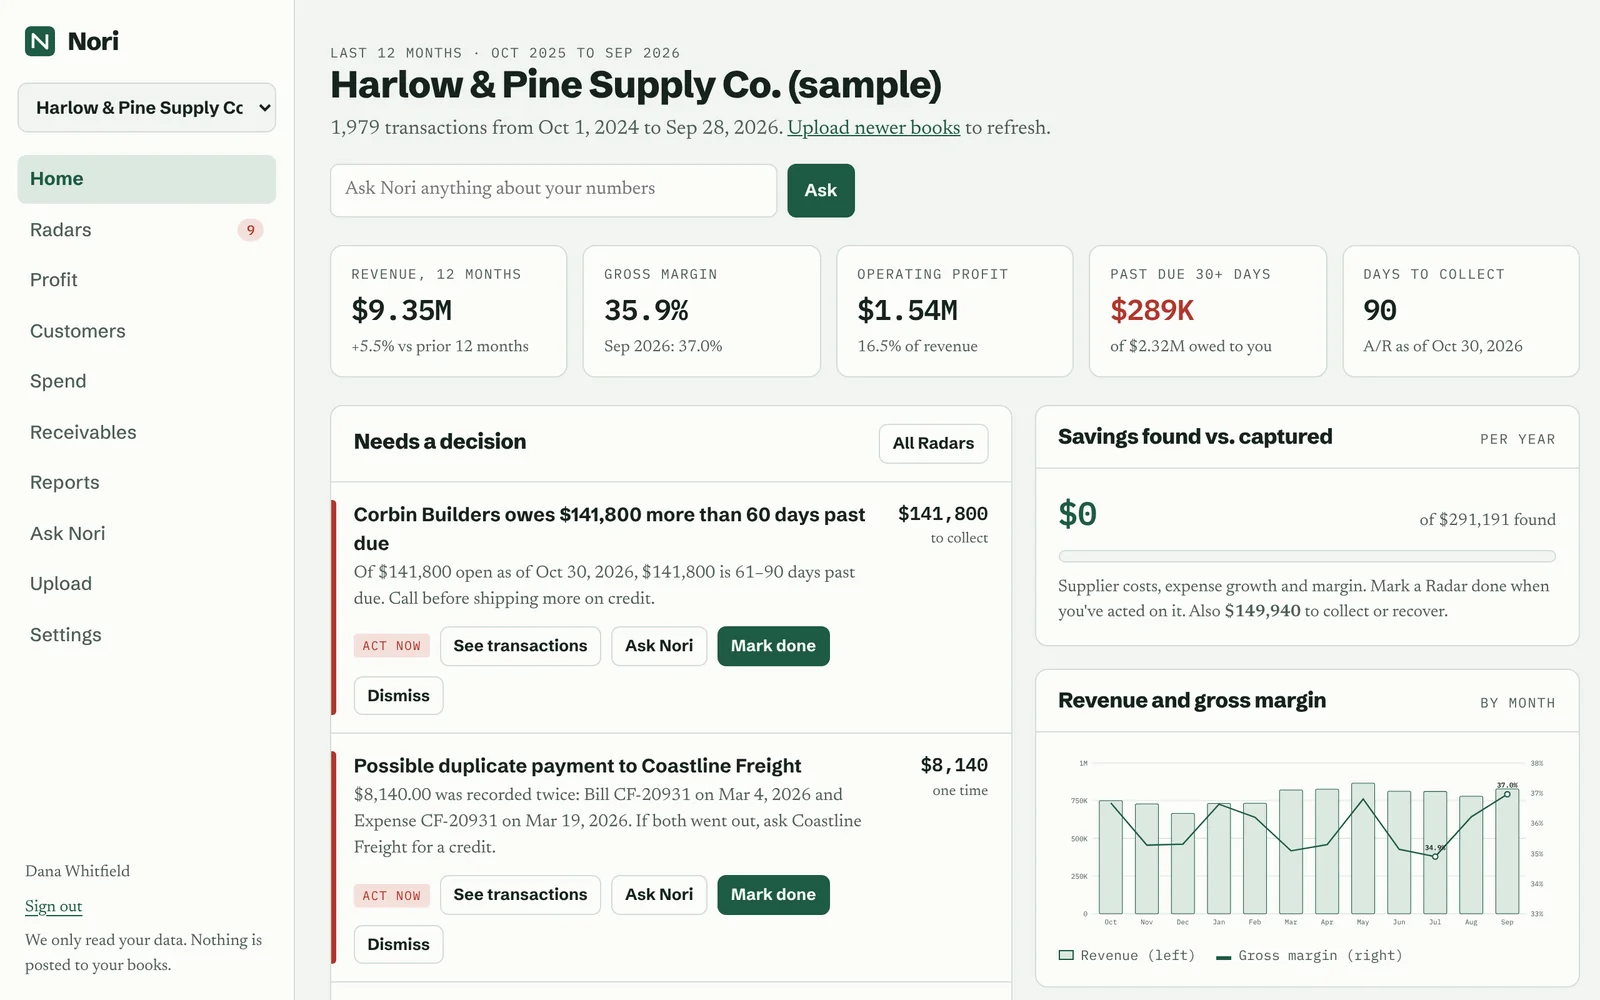
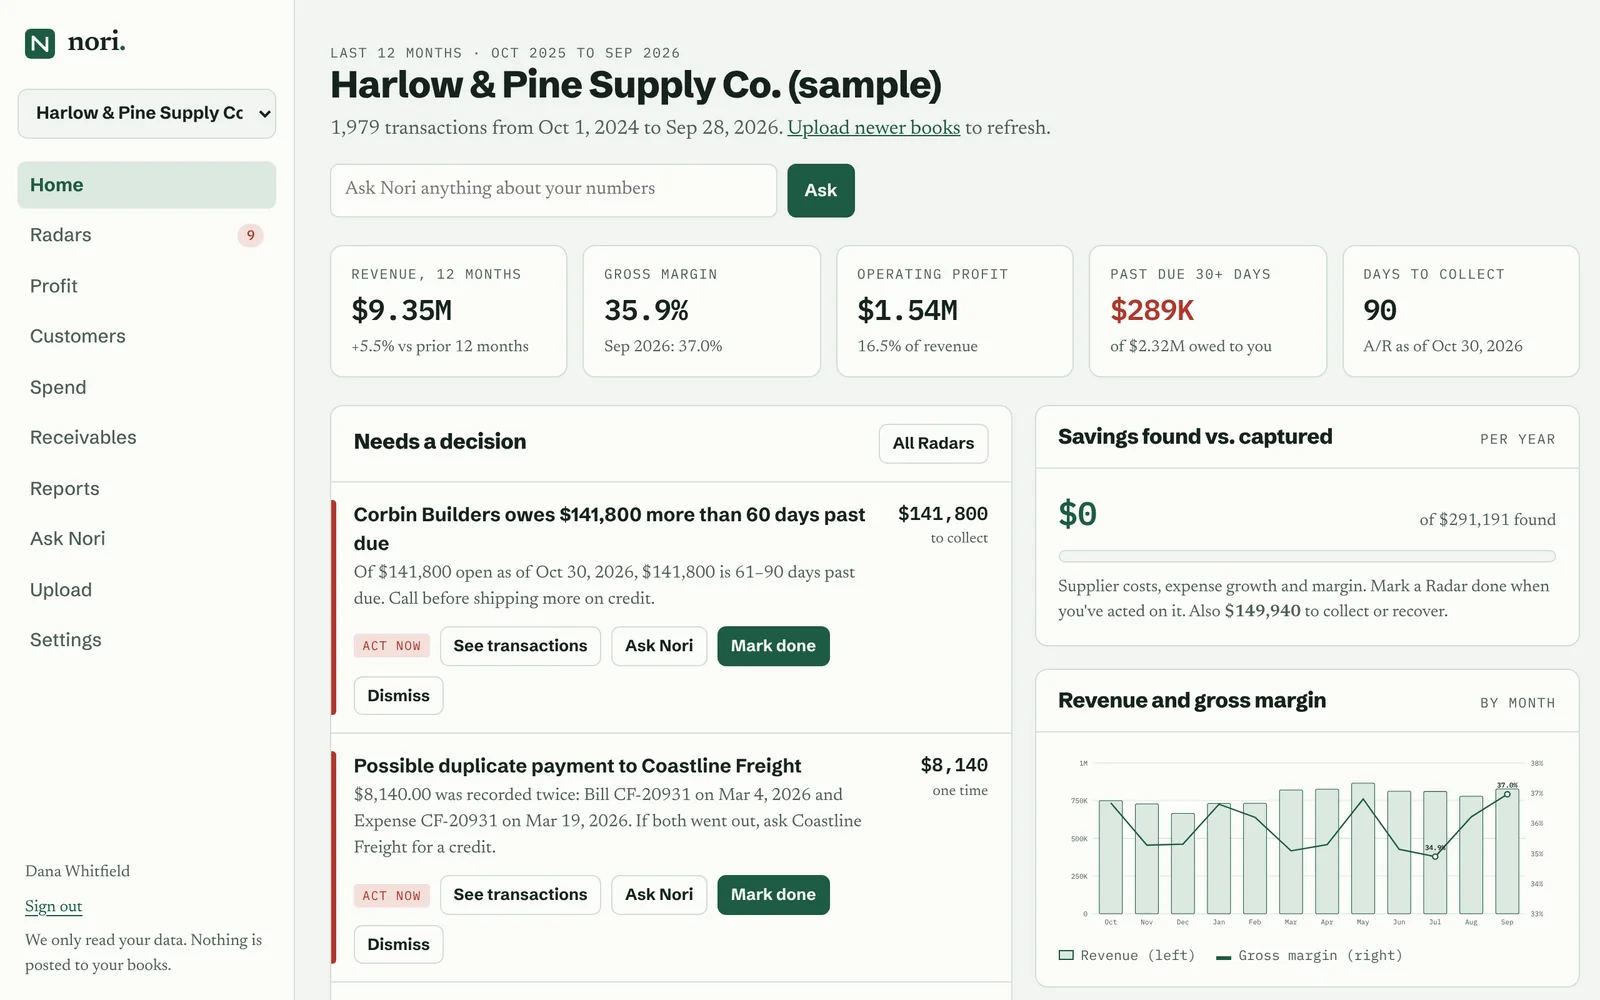
nori. wordmark on every page; refreshed app screens and preview image; drop cash flow claim
Claude-Session: https://claude.ai/code/session_01XSq5uRXZ7pZmD58PLBAZwt

diff --git a/guides/profit-margin-small-business.html b/guides/profit-margin-small-business.html
@@ -59,7 +59,7 @@ footer a{color:var(--ink-2)}
 </style>
 </head>
 <body>
-<header><div class="wrap"><a class="brand" href="/"><svg width="26" height="26" viewBox="0 0 26 26" aria-hidden="true"><rect width="26" height="26" rx="5" fill="var(--green)"/><path d="M7 19V7l12 12V7" fill="none" stroke="var(--on-green)" stroke-width="2.4" stroke-linejoin="round"/></svg> Nori</a><a class="btn" href="https://app.noricap.com/signup">Get your AI CFO</a></div></header>
+<header><div class="wrap"><a class="brand" href="/"><svg width="26" height="26" viewBox="0 0 26 26" aria-hidden="true"><rect width="26" height="26" rx="5" fill="var(--green)"/><path d="M7 19V7l12 12V7" fill="none" stroke="var(--on-green)" stroke-width="2.4" stroke-linejoin="round"/></svg> <span style="font-family:var(--body);font-weight:600;font-size:25px;letter-spacing:-.02em">nori<span style="color:var(--green)">.</span></span></a><a class="btn" href="https://app.noricap.com/signup">Get your AI CFO</a></div></header>
 <main><div class="wrap">
 
 <p class="label">Guide · Profitability</p>
@@ -104,6 +104,6 @@ $140,000 net income ÷ $2,000,000 revenue = 7% net margin</div>
 <div class="cta"><h2>Meet Nori, your AI CFO.</h2><p>Nori reads your books, finds where your money is leaking, and shows every finding in dollars with the transactions behind it. Free during early access.</p><a class="btn" href="https://app.noricap.com/signup">Get your AI CFO</a></div>
 
 </div></main>
-<footer><div class="wrap"><span><b style="font-family:var(--display);color:var(--ink)">Nori</b> by Nori Cap · New York · <a href="mailto:pa@noricap.com">pa@noricap.com</a></span><nav aria-label="Footer"><a href="/">Home</a><a href="/guides/">Guides</a><a href="/privacy.html">Privacy</a><a href="/terms.html">Terms</a></nav></div></footer>
+<footer><div class="wrap"><span><b style="font-family:var(--display);color:var(--ink)">nori<span style="color:var(--green)">.</span></b> by Nori Cap · New York · <a href="mailto:pa@noricap.com">pa@noricap.com</a></span><nav aria-label="Footer"><a href="/">Home</a><a href="/guides/">Guides</a><a href="/privacy.html">Privacy</a><a href="/terms.html">Terms</a></nav></div></footer>
 </body>
 </html>

diff --git a/guides/find-wasted-spending-quickbooks.html b/guides/find-wasted-spending-quickbooks.html
@@ -59,7 +59,7 @@ footer a{color:var(--ink-2)}
 </style>
 </head>
 <body>
-<header><div class="wrap"><a class="brand" href="/"><svg width="26" height="26" viewBox="0 0 26 26" aria-hidden="true"><rect width="26" height="26" rx="5" fill="var(--green)"/><path d="M7 19V7l12 12V7" fill="none" stroke="var(--on-green)" stroke-width="2.4" stroke-linejoin="round"/></svg> Nori</a><a class="btn" href="https://app.noricap.com/signup">Get your AI CFO</a></div></header>
+<header><div class="wrap"><a class="brand" href="/"><svg width="26" height="26" viewBox="0 0 26 26" aria-hidden="true"><rect width="26" height="26" rx="5" fill="var(--green)"/><path d="M7 19V7l12 12V7" fill="none" stroke="var(--on-green)" stroke-width="2.4" stroke-linejoin="round"/></svg> <span style="font-family:var(--body);font-weight:600;font-size:25px;letter-spacing:-.02em">nori<span style="color:var(--green)">.</span></span></a><a class="btn" href="https://app.noricap.com/signup">Get your AI CFO</a></div></header>
 <main><div class="wrap">
 
 <p class="label">Guide · Cutting costs</p>
@@ -97,6 +97,6 @@ Ordered monthly: about $7,560 a year</div>
 <div class="cta"><h2>Meet Nori, your AI CFO.</h2><p>Nori reads your books, finds where your money is leaking, and shows every finding in dollars with the transactions behind it. Free during early access.</p><a class="btn" href="https://app.noricap.com/signup">Get your AI CFO</a></div>
 
 </div></main>
-<footer><div class="wrap"><span><b style="font-family:var(--display);color:var(--ink)">Nori</b> by Nori Cap · New York · <a href="mailto:pa@noricap.com">pa@noricap.com</a></span><nav aria-label="Footer"><a href="/">Home</a><a href="/guides/">Guides</a><a href="/privacy.html">Privacy</a><a href="/terms.html">Terms</a></nav></div></footer>
+<footer><div class="wrap"><span><b style="font-family:var(--display);color:var(--ink)">nori<span style="color:var(--green)">.</span></b> by Nori Cap · New York · <a href="mailto:pa@noricap.com">pa@noricap.com</a></span><nav aria-label="Footer"><a href="/">Home</a><a href="/guides/">Guides</a><a href="/privacy.html">Privacy</a><a href="/terms.html">Terms</a></nav></div></footer>
 </body>
 </html>

diff --git a/terms.html b/terms.html
@@ -59,7 +59,7 @@ footer a{color:var(--ink-2)}
 </style>
 </head>
 <body>
-<header><div class="wrap"><a class="brand" href="/"><svg width="26" height="26" viewBox="0 0 26 26" aria-hidden="true"><rect width="26" height="26" rx="5" fill="var(--green)"/><path d="M7 19V7l12 12V7" fill="none" stroke="var(--on-green)" stroke-width="2.4" stroke-linejoin="round"/></svg> Nori</a><a class="btn" href="https://app.noricap.com/signup">Get your AI CFO</a></div></header>
+<header><div class="wrap"><a class="brand" href="/"><svg width="26" height="26" viewBox="0 0 26 26" aria-hidden="true"><rect width="26" height="26" rx="5" fill="var(--green)"/><path d="M7 19V7l12 12V7" fill="none" stroke="var(--on-green)" stroke-width="2.4" stroke-linejoin="round"/></svg> <span style="font-family:var(--body);font-weight:600;font-size:25px;letter-spacing:-.02em">nori<span style="color:var(--green)">.</span></span></a><a class="btn" href="https://app.noricap.com/signup">Get your AI CFO</a></div></header>
 <main><div class="wrap">
 
 <p class="label">Legal</p>
@@ -127,6 +127,6 @@ footer a{color:var(--ink-2)}
 <p>We may update these terms and will change the date at the top when we do. If a change is material, we'll tell you in the app or by email before it takes effect, and continuing to use Nori after that means you accept the new terms. Questions: <a href="mailto:pa@noricap.com">pa@noricap.com</a>.</p>
 
 </div></main>
-<footer><div class="wrap"><span><b style="font-family:var(--display);color:var(--ink)">Nori</b> by Nori Cap · New York · <a href="mailto:pa@noricap.com">pa@noricap.com</a></span><nav aria-label="Footer"><a href="/">Home</a><a href="/guides/">Guides</a><a href="/privacy.html">Privacy</a><a href="/terms.html">Terms</a></nav></div></footer>
+<footer><div class="wrap"><span><b style="font-family:var(--display);color:var(--ink)">nori<span style="color:var(--green)">.</span></b> by Nori Cap · New York · <a href="mailto:pa@noricap.com">pa@noricap.com</a></span><nav aria-label="Footer"><a href="/">Home</a><a href="/guides/">Guides</a><a href="/privacy.html">Privacy</a><a href="/terms.html">Terms</a></nav></div></footer>
 </body>
 </html>

diff --git a/guides/index.html b/guides/index.html
@@ -59,7 +59,7 @@ footer a{color:var(--ink-2)}
 </style>
 </head>
 <body>
-<header><div class="wrap"><a class="brand" href="/"><svg width="26" height="26" viewBox="0 0 26 26" aria-hidden="true"><rect width="26" height="26" rx="5" fill="var(--green)"/><path d="M7 19V7l12 12V7" fill="none" stroke="var(--on-green)" stroke-width="2.4" stroke-linejoin="round"/></svg> Nori</a><a class="btn" href="https://app.noricap.com/signup">Get your AI CFO</a></div></header>
+<header><div class="wrap"><a class="brand" href="/"><svg width="26" height="26" viewBox="0 0 26 26" aria-hidden="true"><rect width="26" height="26" rx="5" fill="var(--green)"/><path d="M7 19V7l12 12V7" fill="none" stroke="var(--on-green)" stroke-width="2.4" stroke-linejoin="round"/></svg> <span style="font-family:var(--body);font-weight:600;font-size:25px;letter-spacing:-.02em">nori<span style="color:var(--green)">.</span></span></a><a class="btn" href="https://app.noricap.com/signup">Get your AI CFO</a></div></header>
 <main><div class="wrap">
 
 <p class="label">Guides</p>
@@ -72,6 +72,6 @@ footer a{color:var(--ink-2)}
 <div class="cta"><h2>Meet Nori, your AI CFO.</h2><p>Nori reads your books, finds where your money is leaking, and shows every finding in dollars with the transactions behind it. Free during early access.</p><a class="btn" href="https://app.noricap.com/signup">Get your AI CFO</a></div>
 
 </div></main>
-<footer><div class="wrap"><span><b style="font-family:var(--display);color:var(--ink)">Nori</b> by Nori Cap · New York · <a href="mailto:pa@noricap.com">pa@noricap.com</a></span><nav aria-label="Footer"><a href="/">Home</a><a href="/guides/">Guides</a><a href="/privacy.html">Privacy</a><a href="/terms.html">Terms</a></nav></div></footer>
+<footer><div class="wrap"><span><b style="font-family:var(--display);color:var(--ink)">nori<span style="color:var(--green)">.</span></b> by Nori Cap · New York · <a href="mailto:pa@noricap.com">pa@noricap.com</a></span><nav aria-label="Footer"><a href="/">Home</a><a href="/guides/">Guides</a><a href="/privacy.html">Privacy</a><a href="/terms.html">Terms</a></nav></div></footer>
 </body>
 </html>

diff --git a/privacy.html b/privacy.html
@@ -59,7 +59,7 @@ footer a{color:var(--ink-2)}
 </style>
 </head>
 <body>
-<header><div class="wrap"><a class="brand" href="/"><svg width="26" height="26" viewBox="0 0 26 26" aria-hidden="true"><rect width="26" height="26" rx="5" fill="var(--green)"/><path d="M7 19V7l12 12V7" fill="none" stroke="var(--on-green)" stroke-width="2.4" stroke-linejoin="round"/></svg> Nori</a><a class="btn" href="https://app.noricap.com/signup">Get your AI CFO</a></div></header>
+<header><div class="wrap"><a class="brand" href="/"><svg width="26" height="26" viewBox="0 0 26 26" aria-hidden="true"><rect width="26" height="26" rx="5" fill="var(--green)"/><path d="M7 19V7l12 12V7" fill="none" stroke="var(--on-green)" stroke-width="2.4" stroke-linejoin="round"/></svg> <span style="font-family:var(--body);font-weight:600;font-size:25px;letter-spacing:-.02em">nori<span style="color:var(--green)">.</span></span></a><a class="btn" href="https://app.noricap.com/signup">Get your AI CFO</a></div></header>
 <main><div class="wrap">
 
 <p class="label">Legal</p>
@@ -148,6 +148,6 @@ footer a{color:var(--ink-2)}
 <p>If we change this policy, we'll update the date at the top. If a change materially affects how we handle data you've already given us, we'll tell you in the app or by email before it takes effect.</p>
 
 </div></main>
-<footer><div class="wrap"><span><b style="font-family:var(--display);color:var(--ink)">Nori</b> by Nori Cap · New York · <a href="mailto:pa@noricap.com">pa@noricap.com</a></span><nav aria-label="Footer"><a href="/">Home</a><a href="/guides/">Guides</a><a href="/privacy.html">Privacy</a><a href="/terms.html">Terms</a></nav></div></footer>
+<footer><div class="wrap"><span><b style="font-family:var(--display);color:var(--ink)">nori<span style="color:var(--green)">.</span></b> by Nori Cap · New York · <a href="mailto:pa@noricap.com">pa@noricap.com</a></span><nav aria-label="Footer"><a href="/">Home</a><a href="/guides/">Guides</a><a href="/privacy.html">Privacy</a><a href="/terms.html">Terms</a></nav></div></footer>
 </body>
 </html>

diff --git a/404.html b/404.html
@@ -59,7 +59,7 @@ footer a{color:var(--ink-2)}
 </style>
 </head>
 <body>
-<header><div class="wrap"><a class="brand" href="/"><svg width="26" height="26" viewBox="0 0 26 26" aria-hidden="true"><rect width="26" height="26" rx="5" fill="var(--green)"/><path d="M7 19V7l12 12V7" fill="none" stroke="var(--on-green)" stroke-width="2.4" stroke-linejoin="round"/></svg> Nori</a><a class="btn" href="https://app.noricap.com/signup">Get your AI CFO</a></div></header>
+<header><div class="wrap"><a class="brand" href="/"><svg width="26" height="26" viewBox="0 0 26 26" aria-hidden="true"><rect width="26" height="26" rx="5" fill="var(--green)"/><path d="M7 19V7l12 12V7" fill="none" stroke="var(--on-green)" stroke-width="2.4" stroke-linejoin="round"/></svg> <span style="font-family:var(--body);font-weight:600;font-size:25px;letter-spacing:-.02em">nori<span style="color:var(--green)">.</span></span></a><a class="btn" href="https://app.noricap.com/signup">Get your AI CFO</a></div></header>
 <main><div class="wrap">
 
 <p class="label">Error 404</p>
@@ -72,6 +72,6 @@ footer a{color:var(--ink-2)}
 <div class="cta"><h2>Looking for Nori?</h2><p>Your AI CFO. Free during early access, no credit card.</p><a class="btn" href="https://app.noricap.com/signup">Get your AI CFO</a></div>
 
 </div></main>
-<footer><div class="wrap"><span><b style="font-family:var(--display);color:var(--ink)">Nori</b> by Nori Cap · New York · <a href="mailto:pa@noricap.com">pa@noricap.com</a></span><nav aria-label="Footer"><a href="/">Home</a><a href="/guides/">Guides</a><a href="/privacy.html">Privacy</a><a href="/terms.html">Terms</a></nav></div></footer>
+<footer><div class="wrap"><span><b style="font-family:var(--display);color:var(--ink)">nori<span style="color:var(--green)">.</span></b> by Nori Cap · New York · <a href="mailto:pa@noricap.com">pa@noricap.com</a></span><nav aria-label="Footer"><a href="/">Home</a><a href="/guides/">Guides</a><a href="/privacy.html">Privacy</a><a href="/terms.html">Terms</a></nav></div></footer>
 </body>
 </html>

diff --git a/thanks.html b/thanks.html
@@ -59,7 +59,7 @@ footer a{color:var(--ink-2)}
 </style>
 </head>
 <body>
-<header><div class="wrap"><a class="brand" href="/"><svg width="26" height="26" viewBox="0 0 26 26" aria-hidden="true"><rect width="26" height="26" rx="5" fill="var(--green)"/><path d="M7 19V7l12 12V7" fill="none" stroke="var(--on-green)" stroke-width="2.4" stroke-linejoin="round"/></svg> Nori</a><a class="btn" href="https://app.noricap.com/signup">Get your AI CFO</a></div></header>
+<header><div class="wrap"><a class="brand" href="/"><svg width="26" height="26" viewBox="0 0 26 26" aria-hidden="true"><rect width="26" height="26" rx="5" fill="var(--green)"/><path d="M7 19V7l12 12V7" fill="none" stroke="var(--on-green)" stroke-width="2.4" stroke-linejoin="round"/></svg> <span style="font-family:var(--body);font-weight:600;font-size:25px;letter-spacing:-.02em">nori<span style="color:var(--green)">.</span></span></a><a class="btn" href="https://app.noricap.com/signup">Get your AI CFO</a></div></header>
 <main><div class="wrap">
 
 <p class="label">Thank you</p>
@@ -68,6 +68,6 @@ footer a{color:var(--ink-2)}
 <p><a href="/guides/">Read the guides</a> · <a href="/">Back to Nori</a></p>
 
 </div></main>
-<footer><div class="wrap"><span><b style="font-family:var(--display);color:var(--ink)">Nori</b> by Nori Cap · New York · <a href="mailto:pa@noricap.com">pa@noricap.com</a></span><nav aria-label="Footer"><a href="/">Home</a><a href="/guides/">Guides</a><a href="/privacy.html">Privacy</a><a href="/terms.html">Terms</a></nav></div></footer>
+<footer><div class="wrap"><span><b style="font-family:var(--display);color:var(--ink)">nori<span style="color:var(--green)">.</span></b> by Nori Cap · New York · <a href="mailto:pa@noricap.com">pa@noricap.com</a></span><nav aria-label="Footer"><a href="/">Home</a><a href="/guides/">Guides</a><a href="/privacy.html">Privacy</a><a href="/terms.html">Terms</a></nav></div></footer>
 </body>
 </html>

diff --git a/index.html b/index.html
@@ -359,7 +359,7 @@ footer .nori-tag{justify-content:flex-start}
           </figure>
           <figure class="card c3" style="margin:0">
             <div class="art"><img src="img-profit.webp" width="1400" height="1019" loading="lazy" alt="Revenue and gross margin by month for 24 months, with the monthly profit and loss below."></div>
-            <p><b>Know how your business is doing.</b> See your revenue, expenses, cash flow, and profits without digging through spreadsheets.</p>
+            <p><b>Know how your business is doing.</b> See your revenue, expenses, profits and who owes you, without digging through spreadsheets.</p>
           </figure>
           <figure class="card c2" style="margin:0">
             <div class="art"><img src="img-ask.webp" width="1400" height="1019" loading="lazy" alt="Nori explaining in plain English why gross margin fell, with the figures behind the answer."></div>
